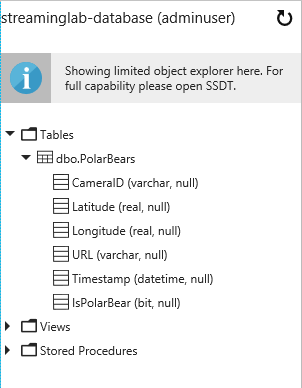
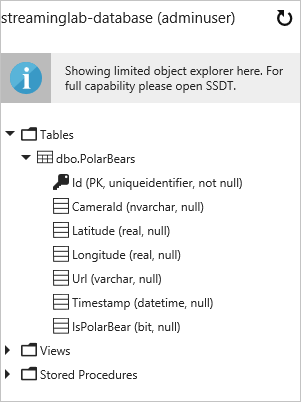
Updated database schema and camera timing

diff --git a/Stream Analytics with Machine Learning (400)/2 - Process/readme.md b/Stream Analytics with Machine Learning (400)/2 - Process/readme.md
@@ -306,8 +306,8 @@ In this exercise, you will use Node.js to stream events from the simulated camer
 	    }
 	
 	    start() {
-	        // Register first callback for 5 to 30 seconds
-	        setTimeout(this.timer, (Math.random() * 25000) + 5000, this);
+	        // Register first callback for 5 to 60 seconds
+	        setTimeout(this.timer, (Math.random() * 55000) + 5000, this);
 	    }
 	
 	    timer(self) {
@@ -316,8 +316,8 @@ In this exercise, you will use Node.js to stream events from the simulated camer
 	            var index = Math.floor(Math.random() * self._files.length);
 	            self.trigger(self._files[index], (err, result) => {});
 	
-	            // Register another callback for 5 to 30 seconds
-	            setTimeout(self.timer, (Math.random() * 25000) + 5000, self);
+	            // Register another callback for 5 to 60 seconds
+	            setTimeout(self.timer, (Math.random() * 55000) + 5000, self);
 	        }
 	    }
 	
@@ -394,7 +394,7 @@ In this exercise, you will use Node.js to stream events from the simulated camer
 	});
 	```
 
-	This code uses the new [class support](http://es6-features.org/#ClassDefinition) in ECMAScript 6 (ES6) to define a class named ```Camera```. Then it creates 10 ```Camera``` instances and starts them running. Each camera object connects to the IoT hub securely using an access key obtained from **cameras.json**, and then uses a random timer to transmit events every 5 to 30 seconds. Each event that is transmitted includes the camera's ID, latitude, and longitude, as well as an image URL and a timestamp. The URL refers to an image that the camera uploaded to blob storage before firing the event. Images are randomly selected from the files in the project directory's "photos" subdirectory.
+	This code uses the new [class support](http://es6-features.org/#ClassDefinition) in ECMAScript 6 (ES6) to define a class named ```Camera```. Then it creates 10 ```Camera``` instances and starts them running. Each camera object connects to the IoT hub securely using an access key obtained from **cameras.json**, and then uses a random timer to transmit events every 5 to 60 seconds. Each event that is transmitted includes the camera's ID, latitude, and longitude, as well as an image URL and a timestamp. The URL refers to an image that the camera uploaded to blob storage before firing the event. Images are randomly selected from the files in the project directory's "photos" subdirectory.
 
 1. Replace HUB_NAME on line 3 with the name of the IoT hub that you created in the previous lab, ACCOUNT_NAME on line 4 with the name of the storage account that you created in the same lab, and ACCOUNT_KEY on line 5 with the storage account's access key. Then save the file.
 

diff --git a/Stream Analytics with Machine Learning (400)/3 - Predict/readme.md b/Stream Analytics with Machine Learning (400)/3 - Predict/readme.md
@@ -164,10 +164,32 @@ In this exercise, you will use the Azure CLI to create an Azure SQL database tha
 
 	_Logging in to the database server_
 
-1. Type the following query into the query window and click **Run** to run the query and create a database table:
+1. Paste the following query into the query window and click **Run** to run the query and create a database table:
 
 	```sql
-	CREATE TABLE PolarBears (CameraID VARCHAR(16), Latitude REAL, Longitude REAL, URL VARCHAR(256), Timestamp DATETIME, IsPolarBear BIT)
+	CREATE TABLE [dbo].[PolarBears]
+	(
+	    [Id] [uniqueidentifier] NOT NULL,
+	    [CameraId] [nvarchar](16) NULL,
+	    [Latitude] [real] NULL,
+	    [Longitude] [real] NULL,
+	    [Url] [varchar](max) NULL,
+	    [Timestamp] [datetime] NULL,
+	    [IsPolarBear] [bit] NULL,
+	    PRIMARY KEY CLUSTERED ([Id] ASC)
+	    WITH (STATISTICS_NORECOMPUTE = OFF, IGNORE_DUP_KEY = OFF) ON [PRIMARY]
+	)
+	ON [PRIMARY] TEXTIMAGE_ON [PRIMARY]
+	GO
+	
+	ALTER TABLE [dbo].[PolarBears] ADD DEFAULT (newid()) FOR [Id]
+	GO
+	
+	ALTER TABLE [dbo].[PolarBears] ADD DEFAULT (getdate()) FOR [Timestamp]
+	GO
+	
+	ALTER TABLE [dbo].[PolarBears] ADD DEFAULT ((0)) FOR [IsPolarBear]
+	GO
 	```
 
 1. Expand the list of tables in the treeview on the left and confirm that the "PolarBears" table was created, and that it has the following schema:
